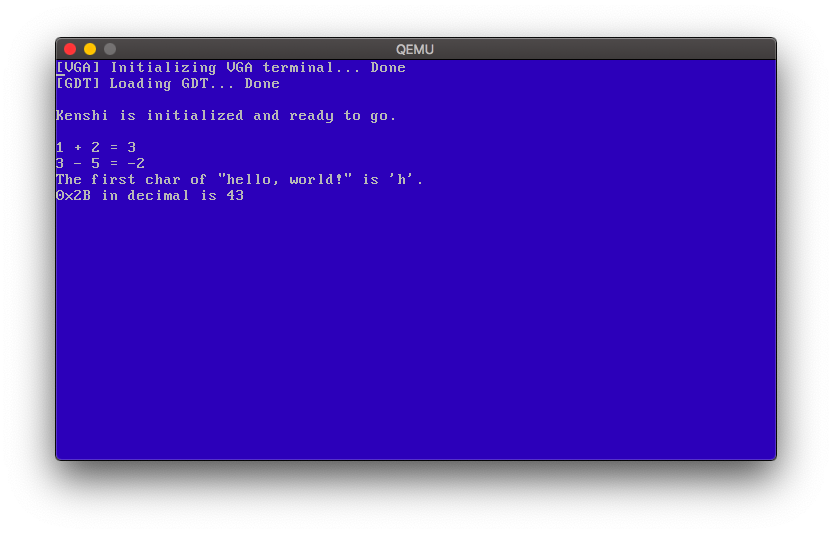
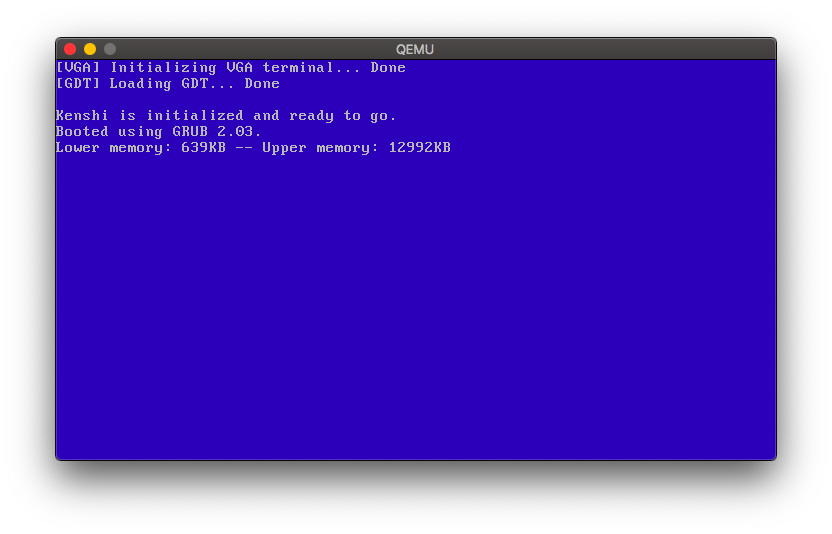
feat: add basic support for multiboot info structure and use it to print some info

diff --git a/src/include/multiboot.h b/src/include/multiboot.h
@@ -1,0 +1,107 @@
+#ifndef KERNEL_MULTIBOOT_H
+#define KERNEL_MULTIBOOT_H
+
+#include <stdint.h>
+#include <stdbool.h>
+
+typedef struct __attribute__((packed)) multiboot_device {
+	uint8_t part3;
+	uint8_t part2;
+	uint8_t part1;
+	uint8_t drive;
+} multiboot_device;
+
+typedef struct __attribute__((packed)) multiboot_mod {
+	void *mod_start;
+	void *mod_end;
+	const char *str;
+	uint32_t reserved;
+} multiboot_mod;
+
+typedef struct __attribute__((packed)) multiboot_syms {
+	uint32_t tabsize;
+	uint32_t strsize;
+	void *addr;
+	uint32_t reserved;
+} multiboot_syms;
+
+typedef struct __attribute__((packed)) multiboot_mmap {
+	uint64_t base_addr;
+	uint64_t length;
+	uint32_t type;
+} multiboot_mmap;
+
+typedef uint8_t multiboot_drive_ports;
+
+typedef struct __attribute__((packed)) multiboot_drive {
+	uint32_t size;
+	uint8_t number;
+	uint8_t mode;
+	uint16_t cylinders;
+	uint8_t heads;
+	multiboot_drive_ports ports;
+} multiboot_drive;
+
+typedef struct __attribute__((packed)) multiboot_apm_table {
+	uint16_t version;
+	uint16_t cseg;
+	uint16_t offset;
+	uint16_t cseg16;
+	uint16_t dseg;
+	uint16_t flags;
+	uint16_t cseg_len;
+	uint16_t cseg16_len;
+	uint16_t dseg_len;
+} multiboot_apm_table;
+
+typedef struct __attribute__((packed)) multiboot_info {
+	uint32_t flags;
+	uint32_t mem_lower;
+	uint32_t mem_upper;
+	multiboot_device boot_device;
+	const char *cmdline;
+	uint32_t mods_count;
+	multiboot_mod *mods;
+	multiboot_syms syms;
+	uint32_t mmap_length;
+	multiboot_mmap *mmaps;
+	uint32_t drives_length;
+	multiboot_drive *drives_addr;
+	uint32_t config_table;
+	const char *boot_loader_name;
+	multiboot_apm_table *apm_table;
+	uint32_t vba_control_info;
+	uint32_t vba_mode_info;
+	uint16_t vba_mode;
+	uint16_t vba_interface_seg;
+	uint16_t vba_interface_off;
+	uint32_t vba_interface_len;
+	uint64_t framebuffer_addr;
+	uint32_t framebuffer_pitch;
+	uint32_t framebuffer_width;
+	uint32_t framebuffer_height;
+	uint8_t framebuffer_bpp;
+	uint8_t framebuffer_type;
+	uint32_t color_info;
+	uint16_t color_info2;
+} multiboot_info;
+
+typedef enum multiboot_flag {
+	MB_MEM = 1 << 0,
+	MB_BOOT_DEV = 1 << 1,
+	MB_CMDLINE = 1 << 2,
+	MB_MODS = 1 << 3,
+	MB_SYMS1 = 1 << 4,
+	MB_SYMS2 = 1 << 5,
+	MB_MMAP = 1 << 6,
+	MB_DRIVES = 1 << 7,
+	MB_CONFIG = 1 << 8,
+	MB_BL_NAME = 1 << 9,
+	MB_APM = 1 << 10,
+	MB_VBE = 1 << 11,
+	MB_FB = 1 << 12,
+} multiboot_flag;
+
+bool mb_flags(multiboot_info *mb, multiboot_flag flags);
+
+#endif

diff --git a/src/kernel.c b/src/kernel.c
@@ -1,6 +1,7 @@
 #include "stdio.h"
 #include "vga.h"
 #include "gdt.h"
+#include "multiboot.h"
 
 void kmain_early(void) {
 	vga_init();
@@ -17,11 +18,15 @@ void kmain_early(void) {
 	gdt_load();
 }
 
-void kmain(void) {
-	printf("\nKenshi is initialized and ready to go.\n\n");
-	printf("1 + 2 = %i\n", 1 + 2);
-	printf("3 - 5 = %i\n", 3 - 5);
-	char *text = "hello, world!";
-	printf("The first char of \"%s\" is '%c'.\n", text, text[0]);
-	printf("0x%x in decimal is %i", 0x2B, 0x2B);
+void kmain(multiboot_info *mb) {
+	printf("\nKenshi is initialized and ready to go.\n");
+	if (mb_flags(mb, MB_BL_NAME)) {
+		printf("Booted using %s.\n", mb->boot_loader_name);
+	} else {
+		printf("Boot loader could not be identified.\n");
+	}
+	if (mb_flags(mb, MB_MEM)) {
+		printf("Lower memory: %luKB -- Upper memory: %luKB\n", mb->mem_lower, mb->mem_upper);
+	}
+	printf("\n");
 }

diff --git a/src/printf.c b/src/printf.c
@@ -14,12 +14,22 @@ static void printf_(const char *format, va_list args) {
 
 			bool length = false;
 
-			while (true) {
-				if (format[ci] == 'z') {
-					length = true;
-					ci++;
-				} else {
-					break;
+			bool options = true;
+			while (options) {
+				switch (format[ci]) {
+					case 'z': {
+						length = true;
+						ci++;
+						break;
+					}
+					case 'l': {
+						ci++;
+						break;
+					}
+					default: {
+						options = false;
+						break;
+					}
 				}
 			}
 

diff --git a/src/multiboot.c b/src/multiboot.c
@@ -1,0 +1,5 @@
+#include "multiboot.h"
+
+inline bool mb_flags(multiboot_info *mb, multiboot_flag flags) {
+	return (mb->flags & flags) == flags;
+}
